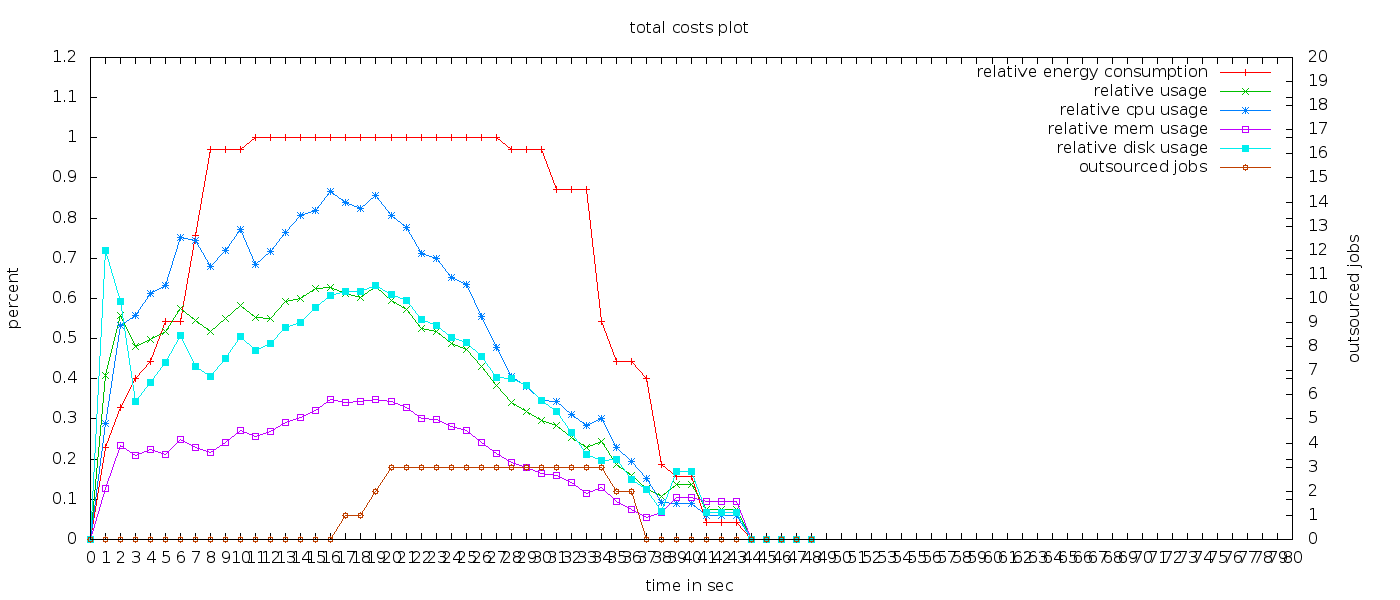
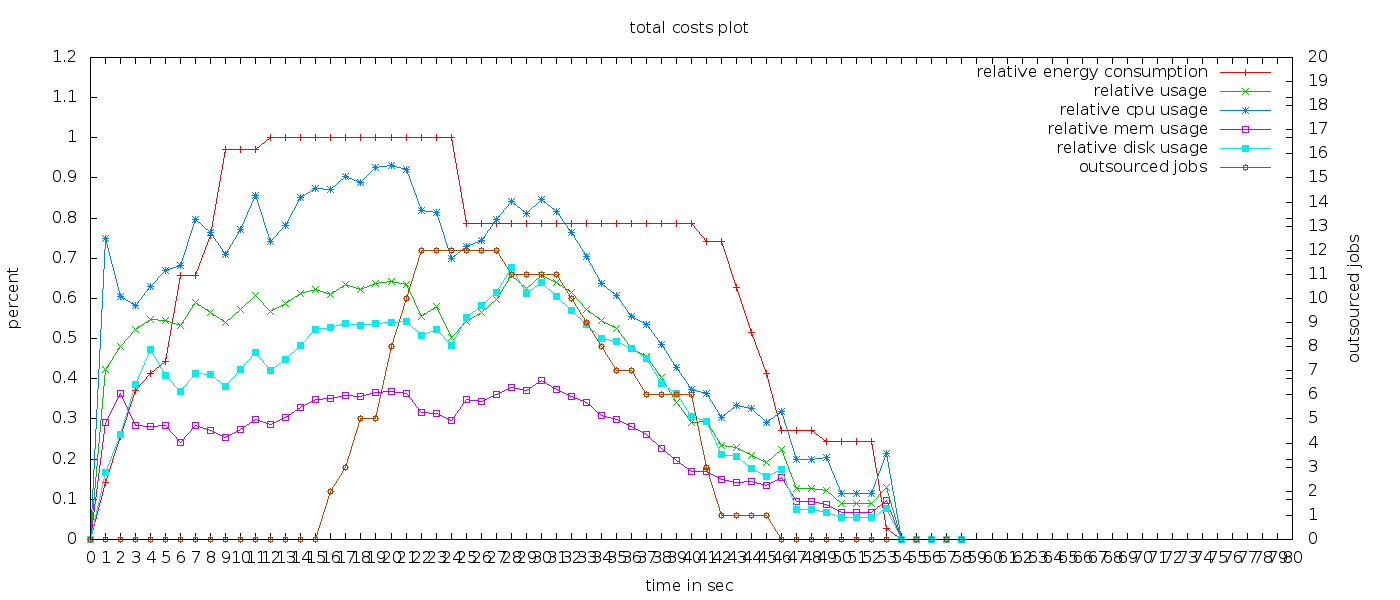
this is it

diff --git a/src/at/ac/tuwien/infosys/lsdc/scheduler/monitor/PerformanceMonitor.java b/src/at/ac/tuwien/infosys/lsdc/scheduler/monitor/PerformanceMonitor.java
@@ -131,7 +131,7 @@ public class PerformanceMonitor implements IJobEventListener {
 		intermediateSol.addAll(redistributeJobOperation.execute(currentState));
 //		intermediateSol.addAll(redistributeVMOperation.execute(currentState));
 
-		for (int i = 0; i < 50; i++) {
+		for (int i = 0; i < 2000; i++) {
 			for (Change currentSolution : intermediateSol) {
 				intermediateSol2.addAll(redistributeJobOperation
 						.execute(currentSolution.getDestination()));
@@ -143,7 +143,7 @@ public class PerformanceMonitor implements IJobEventListener {
 //			}
 			if (intermediateSol2.size() > 0) {
 				intermediateSol.clear();
-				intermediateSol.addAll(intermediateSol2.subList(0, (intermediateSol2.size() < 20 ? intermediateSol2.size() : 5)));
+				intermediateSol.addAll(intermediateSol2);
 			} else {
 				break;
 			}
@@ -151,7 +151,11 @@ public class PerformanceMonitor implements IJobEventListener {
 
 		Collections.sort(intermediateSol);
 		if (intermediateSol.size() > 0) {
-			execute(intermediateSol.get(0));
+			Change action = intermediateSol.get(0);
+			
+			action.setSource(currentState); 
+			
+			execute(action);
 		}
 	}
 

diff --git a/src/at/ac/tuwien/infosys/lsdc/scheduler/monitor/Change.java b/src/at/ac/tuwien/infosys/lsdc/scheduler/monitor/Change.java
@@ -36,6 +36,10 @@ public class Change implements Comparable<Change>{
 		return destination.compareTo(other.destination);
 
 	}
+
+	public void setSource(Assignment source) {
+		this.source = source;
+	}
 	
 	
 }
